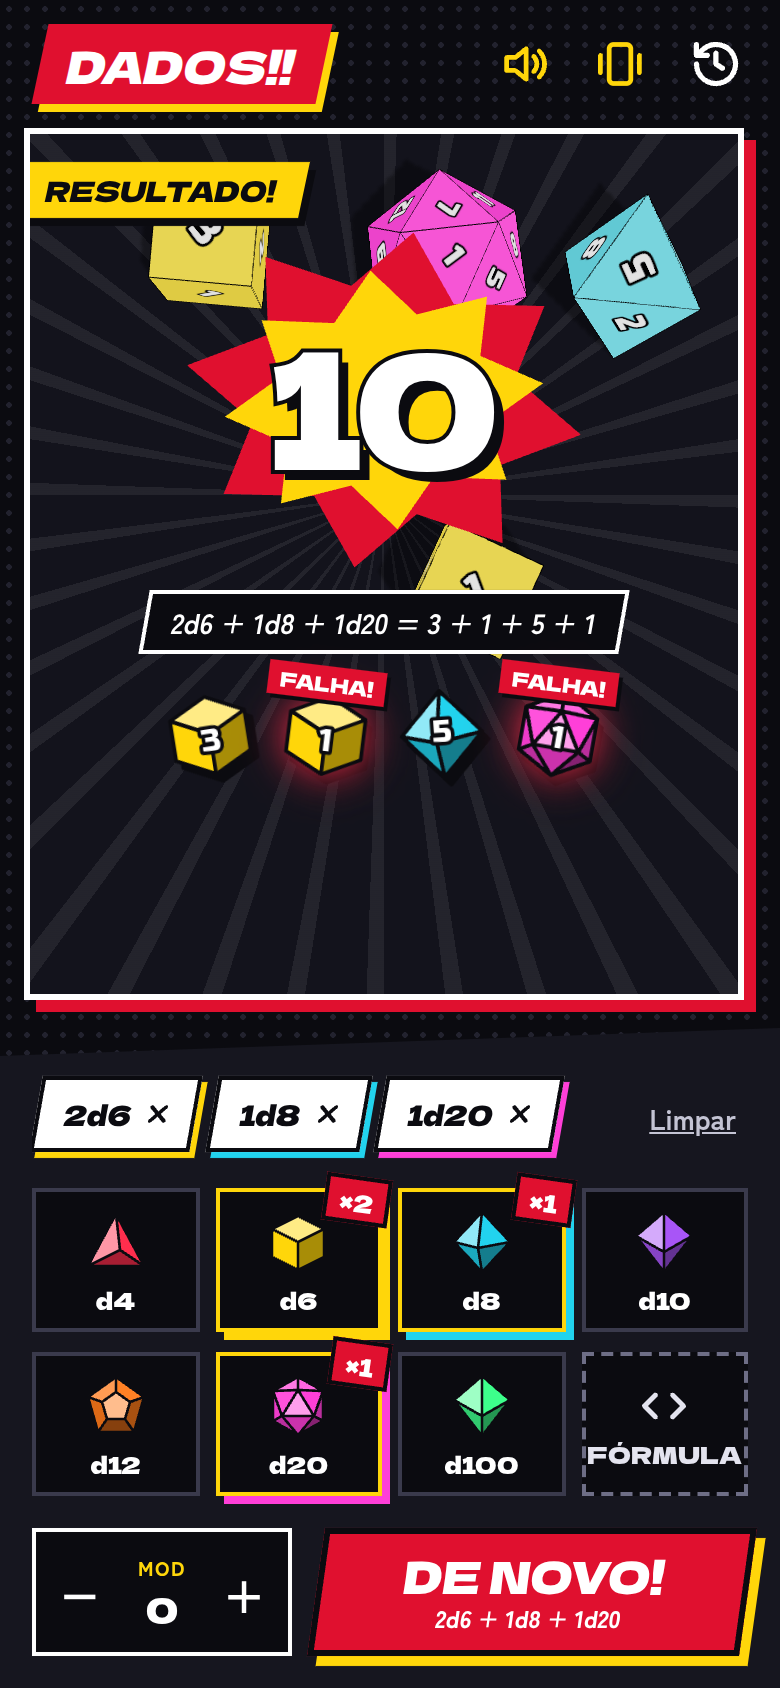
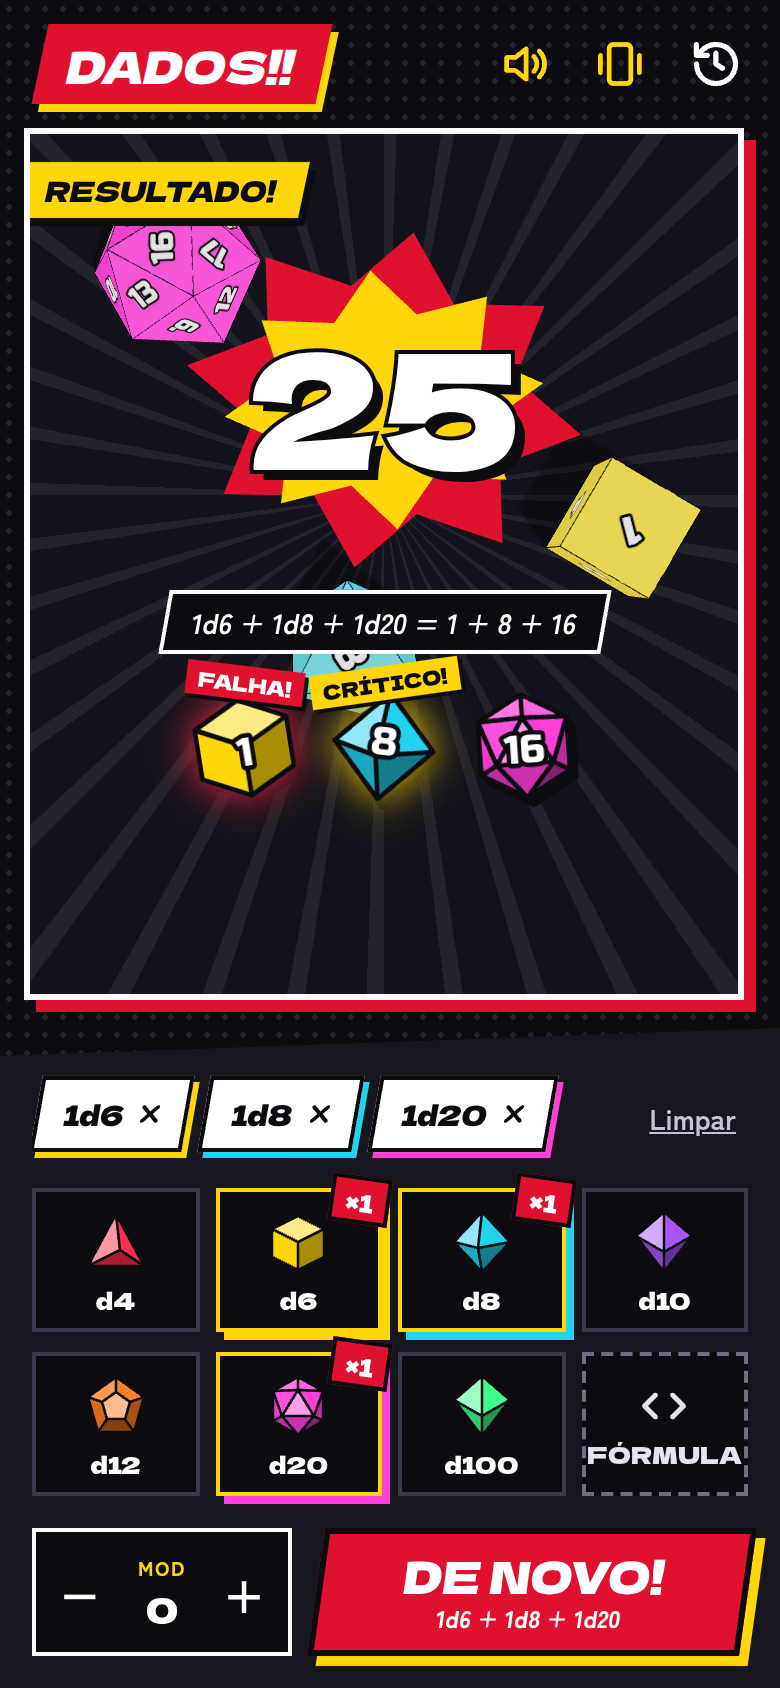
fix(shake): fling held dice from tested helpers and follow the screen
heldVelocity sets a slowed die sideways speed to the push along the
shake and lets a die still flying keep bouncing, with light damping;
no per-die push gap. screenMotion turns motion by the screen angle and
gives no direction for gravity-only samples, so the push goes random.
Two direction tests are tightened (verifier F6-F9).

diff --git a/src/utils/shakeGesture.test.ts b/src/utils/shakeGesture.test.ts
@@ -1,7 +1,7 @@
 // Derived from .specs/features/sound-polish/spec.md (SPL-05) and shake-animation/spec.md (SHA-01.5, SHA-02.1, SHA-04, SHA-05). Run: npm test
 import { test } from 'node:test';
 import assert from 'node:assert/strict';
-import { CALM_MS, canShakeRoll, createShakeGesture, createShakeHandler, MAX_IMPULSE, MIN_IMPULSE, pushDirection, RATTLE_THRESHOLD, ROLL_THRESHOLD, shakeImpulse } from './shakeGesture.ts';
+import { CALM_MS, canShakeRoll, createShakeGesture, createShakeHandler, FLYING, heldVelocity, MAX_IMPULSE, MIN_IMPULSE, PUSH_SPREAD, pushDirection, screenMotion, RATTLE_THRESHOLD, ROLL_THRESHOLD, shakeImpulse } from './shakeGesture.ts';
 
 const WEAK = (RATTLE_THRESHOLD + ROLL_THRESHOLD) / 2; // rattles, never rolls
 const STRONG = ROLL_THRESHOLD + 1;
@@ -183,8 +183,10 @@ test('SHA-05.2 the push follows the phone: side-to-side, up-down and mixed, as a
   // the handler hands each rattle step this direction with its push size
   const pushes: unknown[] = [];
   const handle = createShakeHandler((_t, i, d) => pushes.push([i, d]), () => {}, () => true);
-  handle(STRONG, 0, -6, -6);
-  assert.deepEqual(pushes, [[shakeImpulse(STRONG), pushDirection(-6, -6, rnd)]]);
+  handle(STRONG, 0, -3, 9); // asymmetric: swapped axes would point elsewhere
+  assert.deepEqual(pushes, [[shakeImpulse(STRONG), pushDirection(-3, 9, rnd)]]);
+  const [, d] = pushes[0] as [number, { x: number; z: number }];
+  assert.ok(d.x > 0 && d.z > 0 && near(d.z / d.x, 3), `handler direction ${JSON.stringify(d)}`);
 });
 
 test('SHA-05.3 with no side-to-side or up-down motion the push takes a random table direction', () => {
@@ -196,4 +198,44 @@ test('SHA-05.3 with no side-to-side or up-down motion the push takes a random ta
   // tiny noise counts as no direction too
   const n = pushDirection(1e-6, -1e-6, () => 0.25);
   assert.ok(near(n.x, b.x) && near(n.z, b.z));
+  // but a small real sideways motion is followed, not randomized
+  const small = pushDirection(0.5, 0, () => 0.25);
+  assert.ok(near(small.x, -1) && near(small.z, 0), `0.5 m/s² sideways: ${JSON.stringify(small)}`);
+});
+
+test('SHA-05.2 motion parts follow the screen: turned by its angle, gravity-only samples give no direction', () => {
+  const portrait = screenMotion({ x: 3, y: -4, z: 0 }, null, 0)!;
+  assert.ok(near(portrait.ax, 3) && near(portrait.ay, -4) && near(portrait.force, 5));
+  // screen turned 90°: the device's top points to the screen's left, its right edge to the screen's top
+  const land = screenMotion({ x: 3, y: -4, z: 0 }, null, 90)!;
+  assert.ok(near(land.ax, 4) && near(land.ay, 3), `landscape: ${JSON.stringify(land)}`);
+  const land270 = screenMotion({ x: 3, y: -4, z: 0 }, null, 270)!;
+  assert.ok(near(land270.ax, -4) && near(land270.ay, -3), `landscape 270: ${JSON.stringify(land270)}`);
+  // only gravity-including data: force above gravity still counts, the direction does not
+  const tilted = screenMotion(null, { x: 6.3, y: 7.5, z: 0 }, 0)!;
+  assert.ok(near(tilted.force, Math.hypot(6.3, 7.5) - 9.8));
+  assert.deepEqual([tilted.ax, tilted.ay], [0, 0], 'random push, not a gravity-biased one');
+  assert.equal(screenMotion(null, null, 0), null);
+});
+
+test('SHA-05.5 a push sets the held die sideways speed to the push size, along the shake', () => {
+  const dir = pushDirection(-3, 9, () => 0);
+  for (const r of [0, 0.25, 0.5, 0.75, 0.999]) {
+    for (const i of [MIN_IMPULSE, 9, MAX_IMPULSE]) {
+      const v = heldVelocity({ x: 0, z: 0 }, dir, i, () => r)!;
+      assert.ok(near(Math.hypot(v.x, v.z), i), `sideways speed ${Math.hypot(v.x, v.z)} for push ${i}`);
+      const cos = (v.x * dir.x + v.z * dir.z) / i;
+      assert.ok(cos > Math.cos((25 * Math.PI) / 180), `wobble too wide: ${Math.acos(cos)} rad`);
+      assert.ok(v.y > 0 && v.y <= 2, 'a small hop');
+    }
+  }
+  assert.equal(PUSH_SPREAD, 0.3);
+  // a die slowed below 60 % of the push is flung whole the new way, whatever way it was going
+  const slow = { x: dir.x * 9 * (FLYING - 0.01), z: dir.z * 9 * (FLYING - 0.01) };
+  const back = heldVelocity(slow, { x: -dir.x, z: -dir.z }, 9, () => 0.5)!;
+  assert.ok(near(back.x, -dir.x * 9) && near(back.z, -dir.z * 9));
+  // a die still flying at 60 % of the push or more keeps flying: no new velocity
+  assert.equal(FLYING, 0.6);
+  assert.equal(heldVelocity({ x: 9 * FLYING, z: 0 }, dir, 9, () => 0.5), null);
+  assert.equal(heldVelocity({ x: 0, z: -12 }, dir, 9, () => 0.5), null, 'fast in another direction: keeps bouncing');
 });

diff --git a/src/components/Die.tsx b/src/components/Die.tsx
@@ -5,6 +5,7 @@ import type { DieSpec } from '../types/dice';
 import { getDie, labelTexture, readValue } from '../utils/geometry';
 import { sound } from '../audio/engine';
 import { shakeBus, type ShakePush } from '../hooks/useShake';
+import { heldVelocity } from '../utils/shakeGesture';
 import { contactImpact } from '../utils/sound';
 
 const FLAT = 0.95; // cos(~18°): below this the die is resting on an edge/corner -> reroll
@@ -21,11 +22,10 @@ const spin = () => [rand(-15, 15), rand(-15, 15), rand(-15, 15)] as [number, num
 export const HOLD_DEPTH = 2.2; // strip along the bottom edge
 export const HOLD_SPREAD = 1 / 3; // half-width as a share of the table width
 export const HOLD_LID = 2.4; // invisible lid over the table: held dice stay low, away from the camera
-const PUSH_GAP_MS = 60; // the phone reports ~60 samples/s; one push per die per gap
-const PUSH_SPREAD = 0.3; // per-die wobble around the shake direction
 // held dice behave like bouncy balls (SHA-05.6); thrown dice get the normal table back
 const HELD = { restitution: 0.95, friction: 0.02 };
 const THROWN = { restitution: 0.3, friction: 0.6 };
+const HELD_DAMPING = 0.5; // held dice slow down slowly, so pushes keep landing
 
 /** `hold`: in the bottom strip, pushed by the shake, never read. `thrown`: flies to the top and is read. */
 export type Phase = 'hold' | 'thrown';
@@ -53,18 +53,14 @@ export function Die({ spec, index, count, phase, arena, onSettle }: Props) {
   // Held: each rattle step pushes the die along the shake, harder for a harder shake (SHA-02.1, SHA-05)
   useEffect(() => {
     if (thrown) return;
-    let last = -Infinity;
     const push = (e: Event) => {
       const b = body.current;
-      const now = performance.now();
-      if (!b || now - last < PUSH_GAP_MS) return;
-      last = now;
+      if (!b) return;
       const { impulse: i, dir } = (e as CustomEvent<ShakePush>).detail;
-      // the push sets the sideways speed (any mass), so a back-and-forth shake flings dice edge to edge (SHA-05.5)
-      const dx = dir.x + rand(-PUSH_SPREAD, PUSH_SPREAD);
-      const dz = dir.z + rand(-PUSH_SPREAD, PUSH_SPREAD);
-      const n = Math.hypot(dx, dz) || 1;
-      b.setLinvel({ x: (dx / n) * i, y: rand(0.5, 2), z: (dz / n) * i }, true);
+      // sets the sideways speed (any mass), so a back-and-forth shake flings dice edge to edge (SHA-05.5)
+      const v = heldVelocity(b.linvel(), dir, i, Math.random);
+      if (!v) return; // still flying: let it bounce
+      b.setLinvel(v, true);
       b.setAngvel({ x: rand(-i, i), y: rand(-i, i), z: rand(-i, i) }, true);
     };
     shakeBus.addEventListener('push', push);
@@ -133,6 +129,7 @@ export function Die({ spec, index, count, phase, arena, onSettle }: Props) {
       linearVelocity={start.linearVelocity}
       angularVelocity={start.angularVelocity}
       onSleep={() => thrown && settle()}
+      linearDamping={thrown ? 0 : HELD_DAMPING}
       onCollisionEnter={({ other }) => {
         const self = body.current;
         if (!self) return;

diff --git a/src/utils/shakeGesture.ts b/src/utils/shakeGesture.ts
@@ -60,6 +60,47 @@ export function shakeImpulse(force: number) {
   return MIN_IMPULSE + (MAX_IMPULSE - MIN_IMPULSE) * t;
 }
 
+// ponytail: per-die wobble around the shake direction, so held dice do not move in lockstep
+export const PUSH_SPREAD = 0.3;
+
+export const FLYING = 0.6; // a held die faster than this share of the push keeps flying (SHA-05.5)
+
+/**
+ * Velocity a held die takes on a push (SHA-05.5): sideways speed exactly `impulse` (m/s, any mass),
+ * along `dir` with a small per-die wobble, plus a small hop. Null while the die still flies faster than
+ * FLYING x impulse, so it travels and bounces freely instead of being reversed on every ~60 Hz sample.
+ */
+export function heldVelocity(
+  current: { x: number; z: number },
+  dir: { x: number; z: number },
+  impulse: number,
+  random: () => number,
+) {
+  if (Math.hypot(current.x, current.z) >= FLYING * impulse) return null;
+  const dx = dir.x + (random() * 2 - 1) * PUSH_SPREAD;
+  const dz = dir.z + (random() * 2 - 1) * PUSH_SPREAD;
+  const n = Math.hypot(dx, dz) || 1;
+  return { x: (dx / n) * impulse, y: 0.5 + random() * 1.5, z: (dz / n) * impulse };
+}
+
+type Vec = { x: number | null; y: number | null; z: number | null } | null;
+
+/**
+ * One motion sample as the gesture needs it: force above gravity and the screen-plane parts
+ * (screen right, screen top), turned by the screen angle. Without gravity-free `acceleration` the
+ * direction is unknown (gravity sits in x/y), so the parts are 0 and the push goes random.
+ */
+export function screenMotion(acceleration: Vec, withGravity: Vec, angle: number) {
+  const a = acceleration ?? withGravity;
+  if (!a) return null;
+  const force = Math.hypot(a.x ?? 0, a.y ?? 0, a.z ?? 0) - (acceleration ? 0 : 9.8);
+  if (!acceleration) return { force, ax: 0, ay: 0 };
+  const r = (angle * Math.PI) / 180;
+  const x = a.x ?? 0;
+  const y = a.y ?? 0;
+  return { force, ax: x * Math.cos(r) - y * Math.sin(r), ay: x * Math.sin(r) + y * Math.cos(r) };
+}
+
 type GestureEvents = { start?: () => void; cancel?: () => void };
 
 /**

diff --git a/src/hooks/useShake.ts b/src/hooks/useShake.ts
@@ -1,6 +1,6 @@
 import { useEffect, useRef, useState } from 'react';
 import { shakeRestore } from '../utils/prefs';
-import { createShakeHandler } from '../utils/shakeGesture';
+import { createShakeHandler, screenMotion } from '../utils/shakeGesture';
 import { sound } from '../audio/engine';
 
 type IOSMotion = typeof DeviceMotionEvent & { requestPermission?: () => Promise<'granted' | 'denied'> };
@@ -44,11 +44,8 @@ export function useShake(gesture: Gesture, wanted: boolean, canRoll: () => boole
       { start: () => cb.current.start(), cancel: () => cb.current.cancel() },
     );
     const handle = (e: DeviceMotionEvent) => {
-      const a = e.acceleration ?? e.accelerationIncludingGravity;
-      if (!a) return;
-      const g = e.acceleration ? 0 : 9.8;
-      const force = Math.hypot(a.x ?? 0, a.y ?? 0, a.z ?? 0) - g;
-      step(force, performance.now(), a.x ?? 0, a.y ?? 0);
+      const m = screenMotion(e.acceleration, e.accelerationIncludingGravity, screen.orientation?.angle ?? 0);
+      if (m) step(m.force, performance.now(), m.ax, m.ay);
     };
     window.addEventListener('devicemotion', handle);
     return () => window.removeEventListener('devicemotion', handle);

diff --git a/.specs/features/shake-animation/tasks.md b/.specs/features/shake-animation/tasks.md
@@ -178,18 +178,18 @@ Proof: run unit | SHA-05.2
 **C16** - No screen-plane motion: a random direction (SHA-05, AC 3)
 Proof: run unit | SHA-05.3
 
-**C17** - Each push changes a die's speed by the push size, whatever its mass (SHA-05, AC 4)
-Proof: walk
+**C17** - Each push changes a die's speed by the push size, whatever its mass (SHA-05, AC 4; superseded by AC 5, now proven by C18's test: the push sets a velocity, so mass plays no part)
+Proof: run unit | SHA-05.5
 
-**C18** - Each push sets the held die's sideways velocity to the push size along the shake (SHA-05, AC 5)
-Proof: walk
+**C18** - A push sets a slowed held die's sideways velocity to the push size along the shake; a die still flying keeps flying (SHA-05, AC 5)
+Proof: run unit | SHA-05.5
 
 **C19** - Held dice bounce keeping at least 90 % of their speed, almost no friction; thrown dice back to normal (SHA-05, AC 6)
 Proof: walk
 
 ## Handoff
 
-**Dispatched:** Verifier (validate.md) over HEAD f6f5933, 2026-11-26 - returned (FAIL, 5 findings); Verifier (validate.md, SHA-05 change) over HEAD 29382ed, 2026-11-26 - sent
+**Dispatched:** Verifier (validate.md) over HEAD f6f5933, 2026-11-26 - returned (FAIL, 5 findings); Verifier (validate.md, SHA-05 change) over HEAD 29382ed, 2026-11-26 - returned (FAIL, 4 findings: F6-F9)
 **Settled mid-build:** 2026-11-26 - user, after testing SHA-05: "muito lento o dado percorre pouco a tela ele ta muito preso, quase ns e move minha intençãoe ra fazer ele parecer aquelas bolas malucas quicando por toda a tela" -> SHA-05.5 (push sets the sideways velocity) and SHA-05.6 (bouncy-ball restitution, almost no friction while held), push size 4-14 m/s; checks C18, C19.
 **Walked:** 2026-11-26 (re-walked after the verifier fixes at 783ef56), headless Chrome 390x844 over CDP on `npx vite --host --port 5173` (HTTPS, cert ignored), fresh profile, Web Audio instrumented (sample playback rates, whoosh, oscillators).
 - SHA-01.1/01.3/01.4 (C3, C4): add d6, d6, d8 to the default d20, tap "Agitar para rolar: desligado", synthetic `devicemotion` alternating 20/2 m/s² for 40 steps. `walk/shaking-1.png`: four dice (2 d6, d8, d20) inside the bottom strip, fully in frame; `main` text is empty (no result, no "ROLANDO…", no ready hint).
@@ -197,7 +197,7 @@ Proof: walk
 - SHA-03.1 (C8): calm for 25 steps -> one whoosh, dice thrown toward the top; after 4 s `main` reads "RESULTADO! 20 2d6 + 1d8 + 1d20 = 3 + 1 + 5 + 11" and `walk/landed.png` shows that same 20 = 3 + 1 + 5 + 11 with four dice. That the thrown dice are the held ones (same roll and die ids) is proven by C9, not by the picture.
 - SHA-04.2 (T5): weak shake (10/2 m/s²) then calm -> text during: empty; after: "PRONTO PRA ROLAR!".
 - SHA-04.3 (verifier F1, in the browser): strong shake, tap ROLAR! mid-shake, keep sending calm samples -> 0 impacts while held, 1 whoosh, and the button roll lands: "RESULTADO! 5 2d6 + 1d8 + 1d20 = 1 + 1 + 2 + 1".
-- SHA-05 (C14, C17), after T8: same setup (2 d6, d8, d20, shake on). 45 samples of acceleration (-20, 0) m/s², i.e. the phone braking after moving right -> `walk/push-right.png`: all four dice on the right side of the table against its right edge, d20 moving with the lighter dice. Then 45 samples of (14, -14) -> `walk/push-diag.png`: the four dice crossed the table diagonally to the top-left corner. `main` text empty throughout; 24 rattle-rate samples, no impacts, no whoosh while held. Held dice stayed below the lid, fully in frame.
-- SHA-05.5/05.6 (C18, C19), after the bouncy-ball change: same setup; a synthetic back-and-forth shake (x = 22 sin(2π·4t), y = 12 sin(2π·3t + 1) m/s², 60 samples/s) for 0.7 s, 0.5 s, 0.5 s with a screenshot after each. `walk/bounce-strip.png` (the three table crops side by side): the four dice are in different places each time, spread from the middle to the top and bottom edges rather than drifting together. After calm: one whoosh, the dice stop and are read normally - `main` reads "RESULTADO! 10 2d6 + 1d8 + 1d20 = 3 + 1 + 5 + 1", `walk/bounce-landed.png`.
+- SHA-05 (C14, C17), after T8: same setup (2 d6, d8, d20, shake on). 45 samples of acceleration (-20, 0) m/s², i.e. the phone braking after moving right -> `walk/push-right.png`: all four dice moved to the right half of the table, one d6 against its right edge, d20 moving with the lighter dice. Then 45 samples of (14, -14) -> `walk/push-diag.png`: the four dice crossed the table diagonally to the top-left corner. `main` text empty throughout; 24 rattle-rate samples, no impacts, no whoosh while held. Held dice stayed below the lid, fully in frame.
+- SHA-05.5/05.6 (C18, C19), after the bouncy-ball change and the verifier fixes: add d6, d8 to the default d20, shake on; a synthetic back-and-forth shake (x = 22 sin(2π·4t), y = 12 sin(2π·3t + 1) m/s², 60 samples/s) for 0.7 s, 0.5 s, 0.5 s with a screenshot after each. `walk/bounce-strip.png` (the three table crops side by side): the d20 goes from the bottom to the top to the left, the d8 from the middle to the top right to the bottom: the dice cross the table between shots. A first try that set the speed on every sample kept the dice reversing in place (the "preso" feel); fixed by SHA-05.5's refinement. After calm: one whoosh, the dice stop and are read - `main` reads "RESULTADO! 25 1d6 + 1d8 + 1d20 = 1 + 8 + 16", `walk/bounce-landed.png`.
 - First walk found held dice flying up to the camera, huge and cropped; fixed in T6 with a low spawn, a smaller upward push and an invisible lid.
 - Not walked: feel on the user's phone (real accelerometer, push strength).

diff --git a/.specs/features/shake-animation/spec.md b/.specs/features/shake-animation/spec.md
@@ -78,6 +78,7 @@ As a player, the dice fly across the whole screen and bang into its edges, follo
 **Settled mid-build (2026-11-26, after testing SHA-05 on the phone):** "muito lento o dado percorre pouco a tela ele ta muito preso, quase ns e move minha intençãoe ra fazer ele parecer aquelas bolas malucas quicando por toda a tela". Criterion 4 gives way to 5 and 6:
 
 5. WHEN a rattle step arrives THE SYSTEM SHALL set each held die's sideways velocity to the push size along the push direction, so a back-and-forth shake throws the dice from edge to edge instead of cancelling out.
+   Refined 2026-11-26 after the walk (setting the speed on every ~60 Hz sample kept reversing the dice in place, the "preso" the user reported): WHEN a rattle step arrives and a held die's sideways speed is below 60 % of the push size THE SYSTEM SHALL set its sideways velocity to the push size along the push direction; a die already flying faster keeps flying and bouncing.
 6. WHILE the dice are being shaken THE SYSTEM SHALL make them bounce off the table edges and off each other keeping at least 90 % of their speed, with almost no friction on the table, like bouncy balls; once thrown they get back their normal bounce and friction.
 
 ## Requirement Traceability
